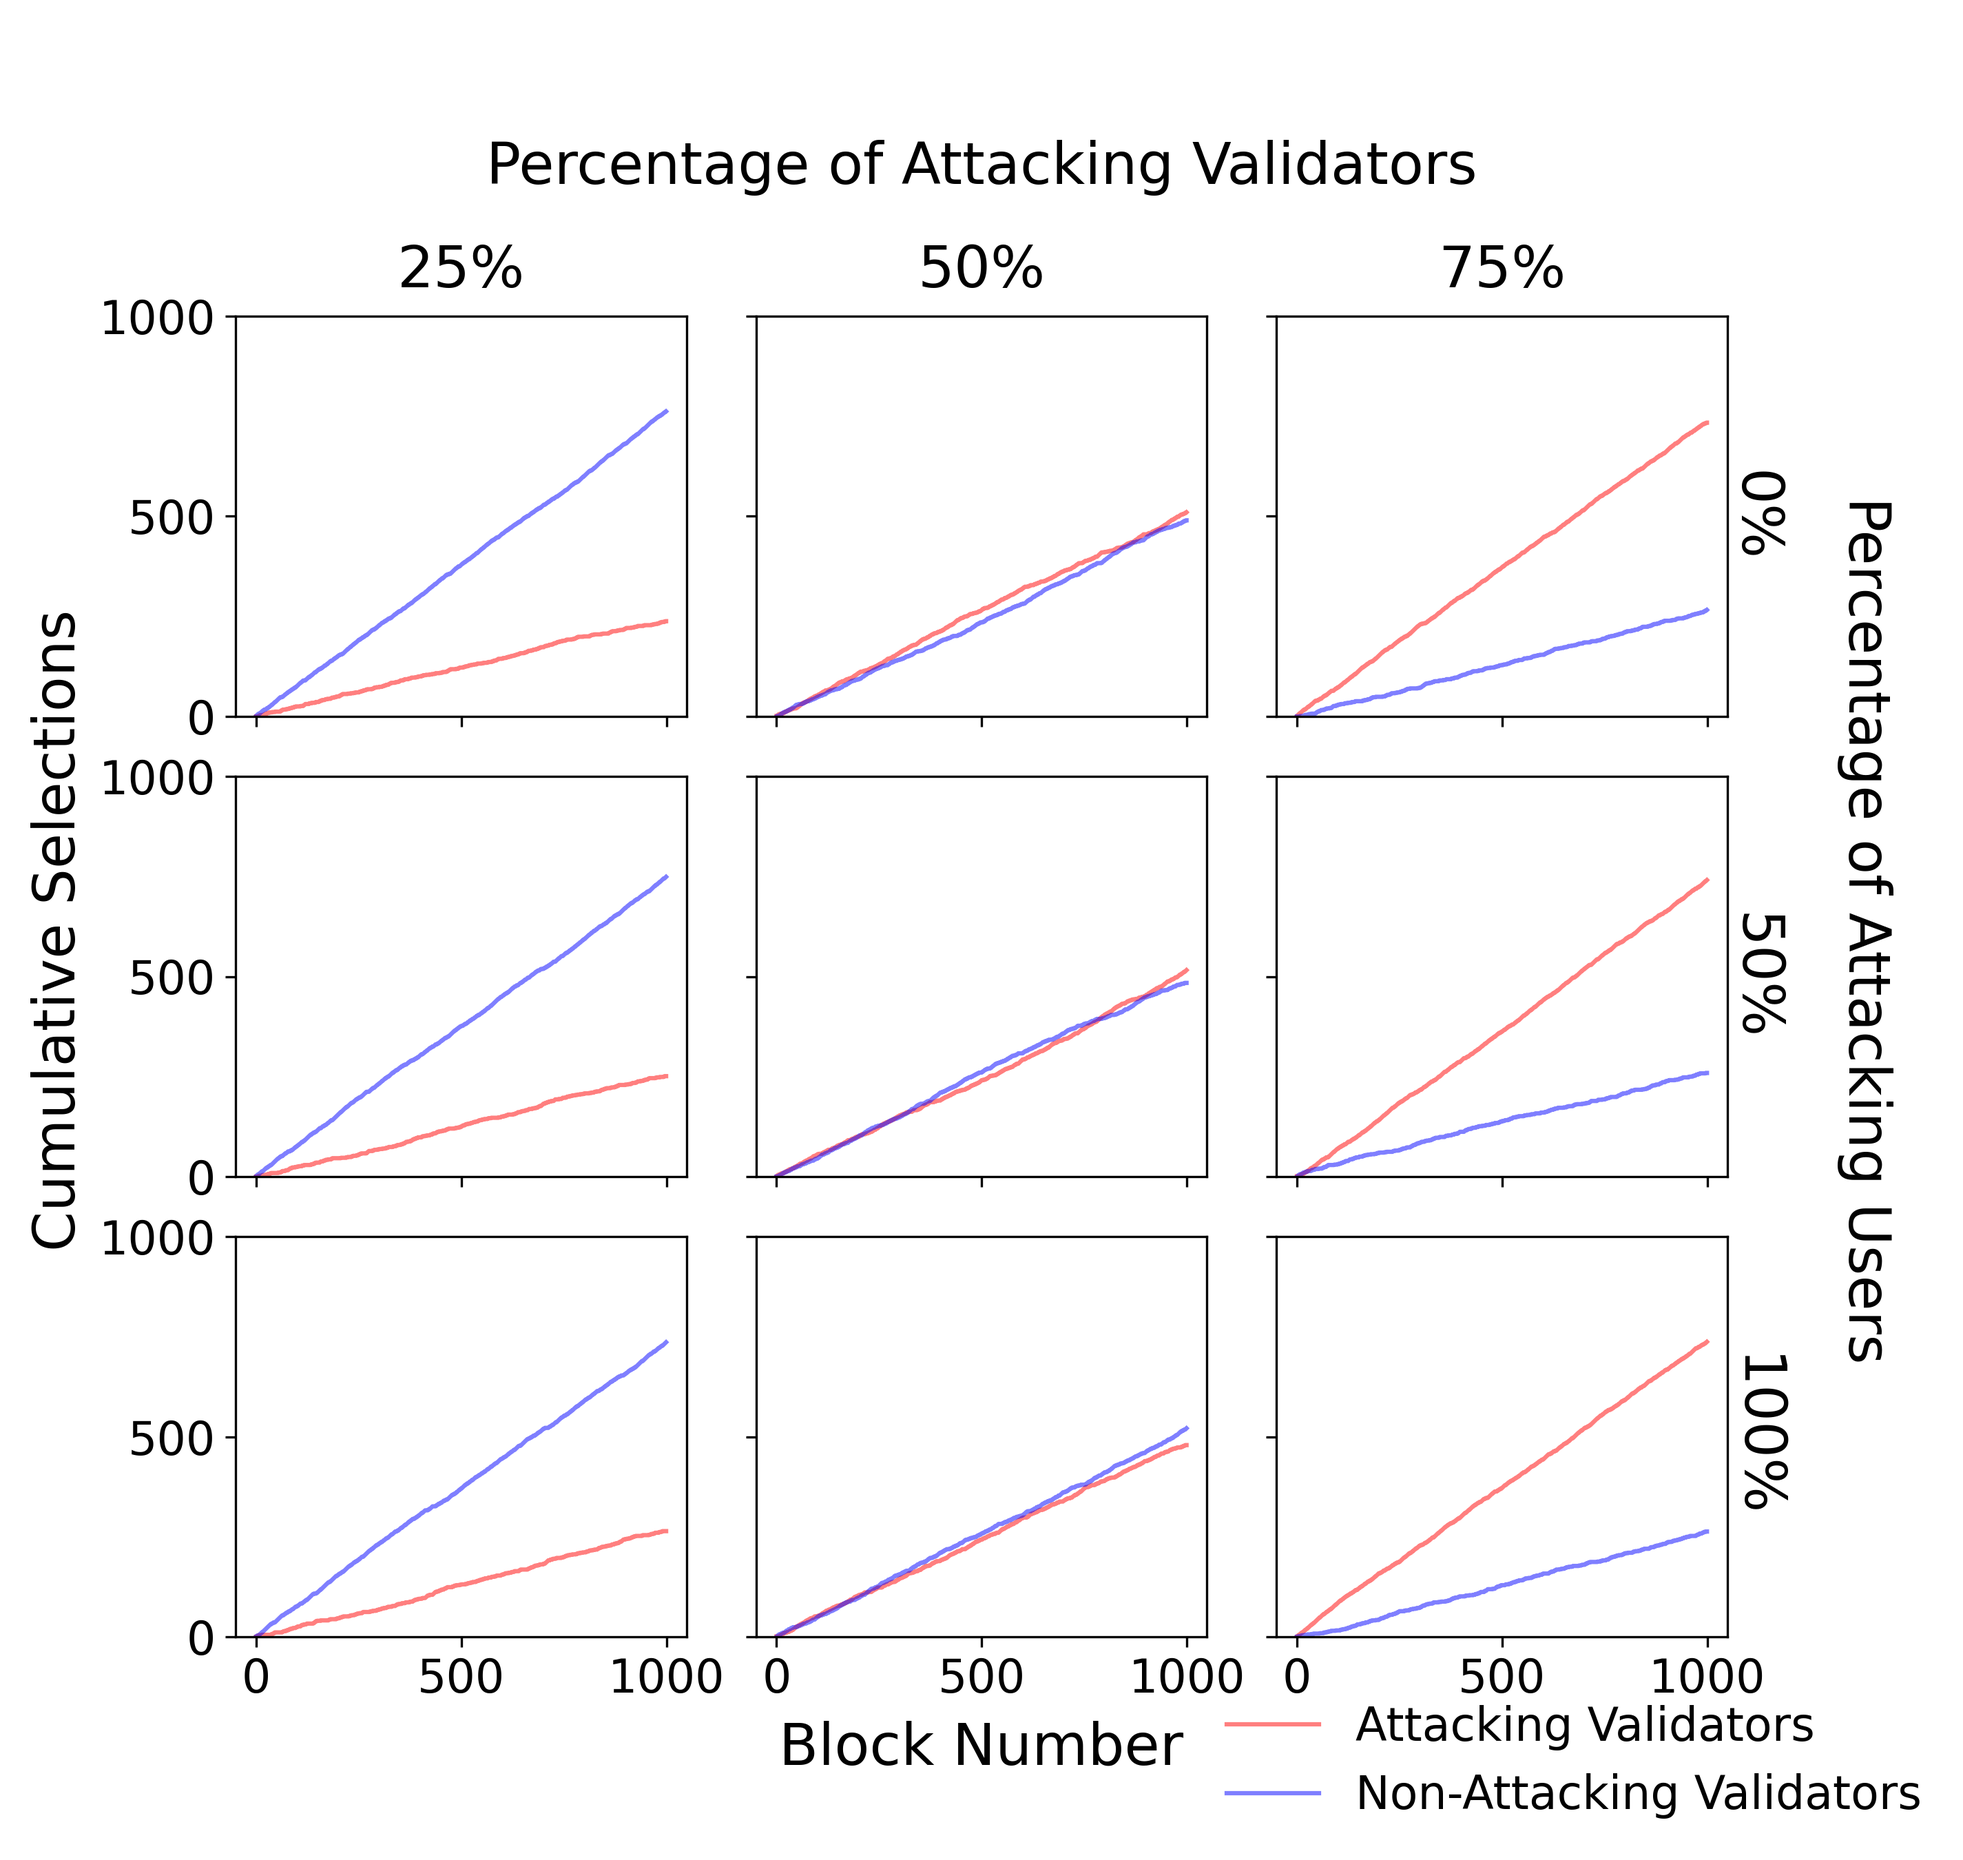
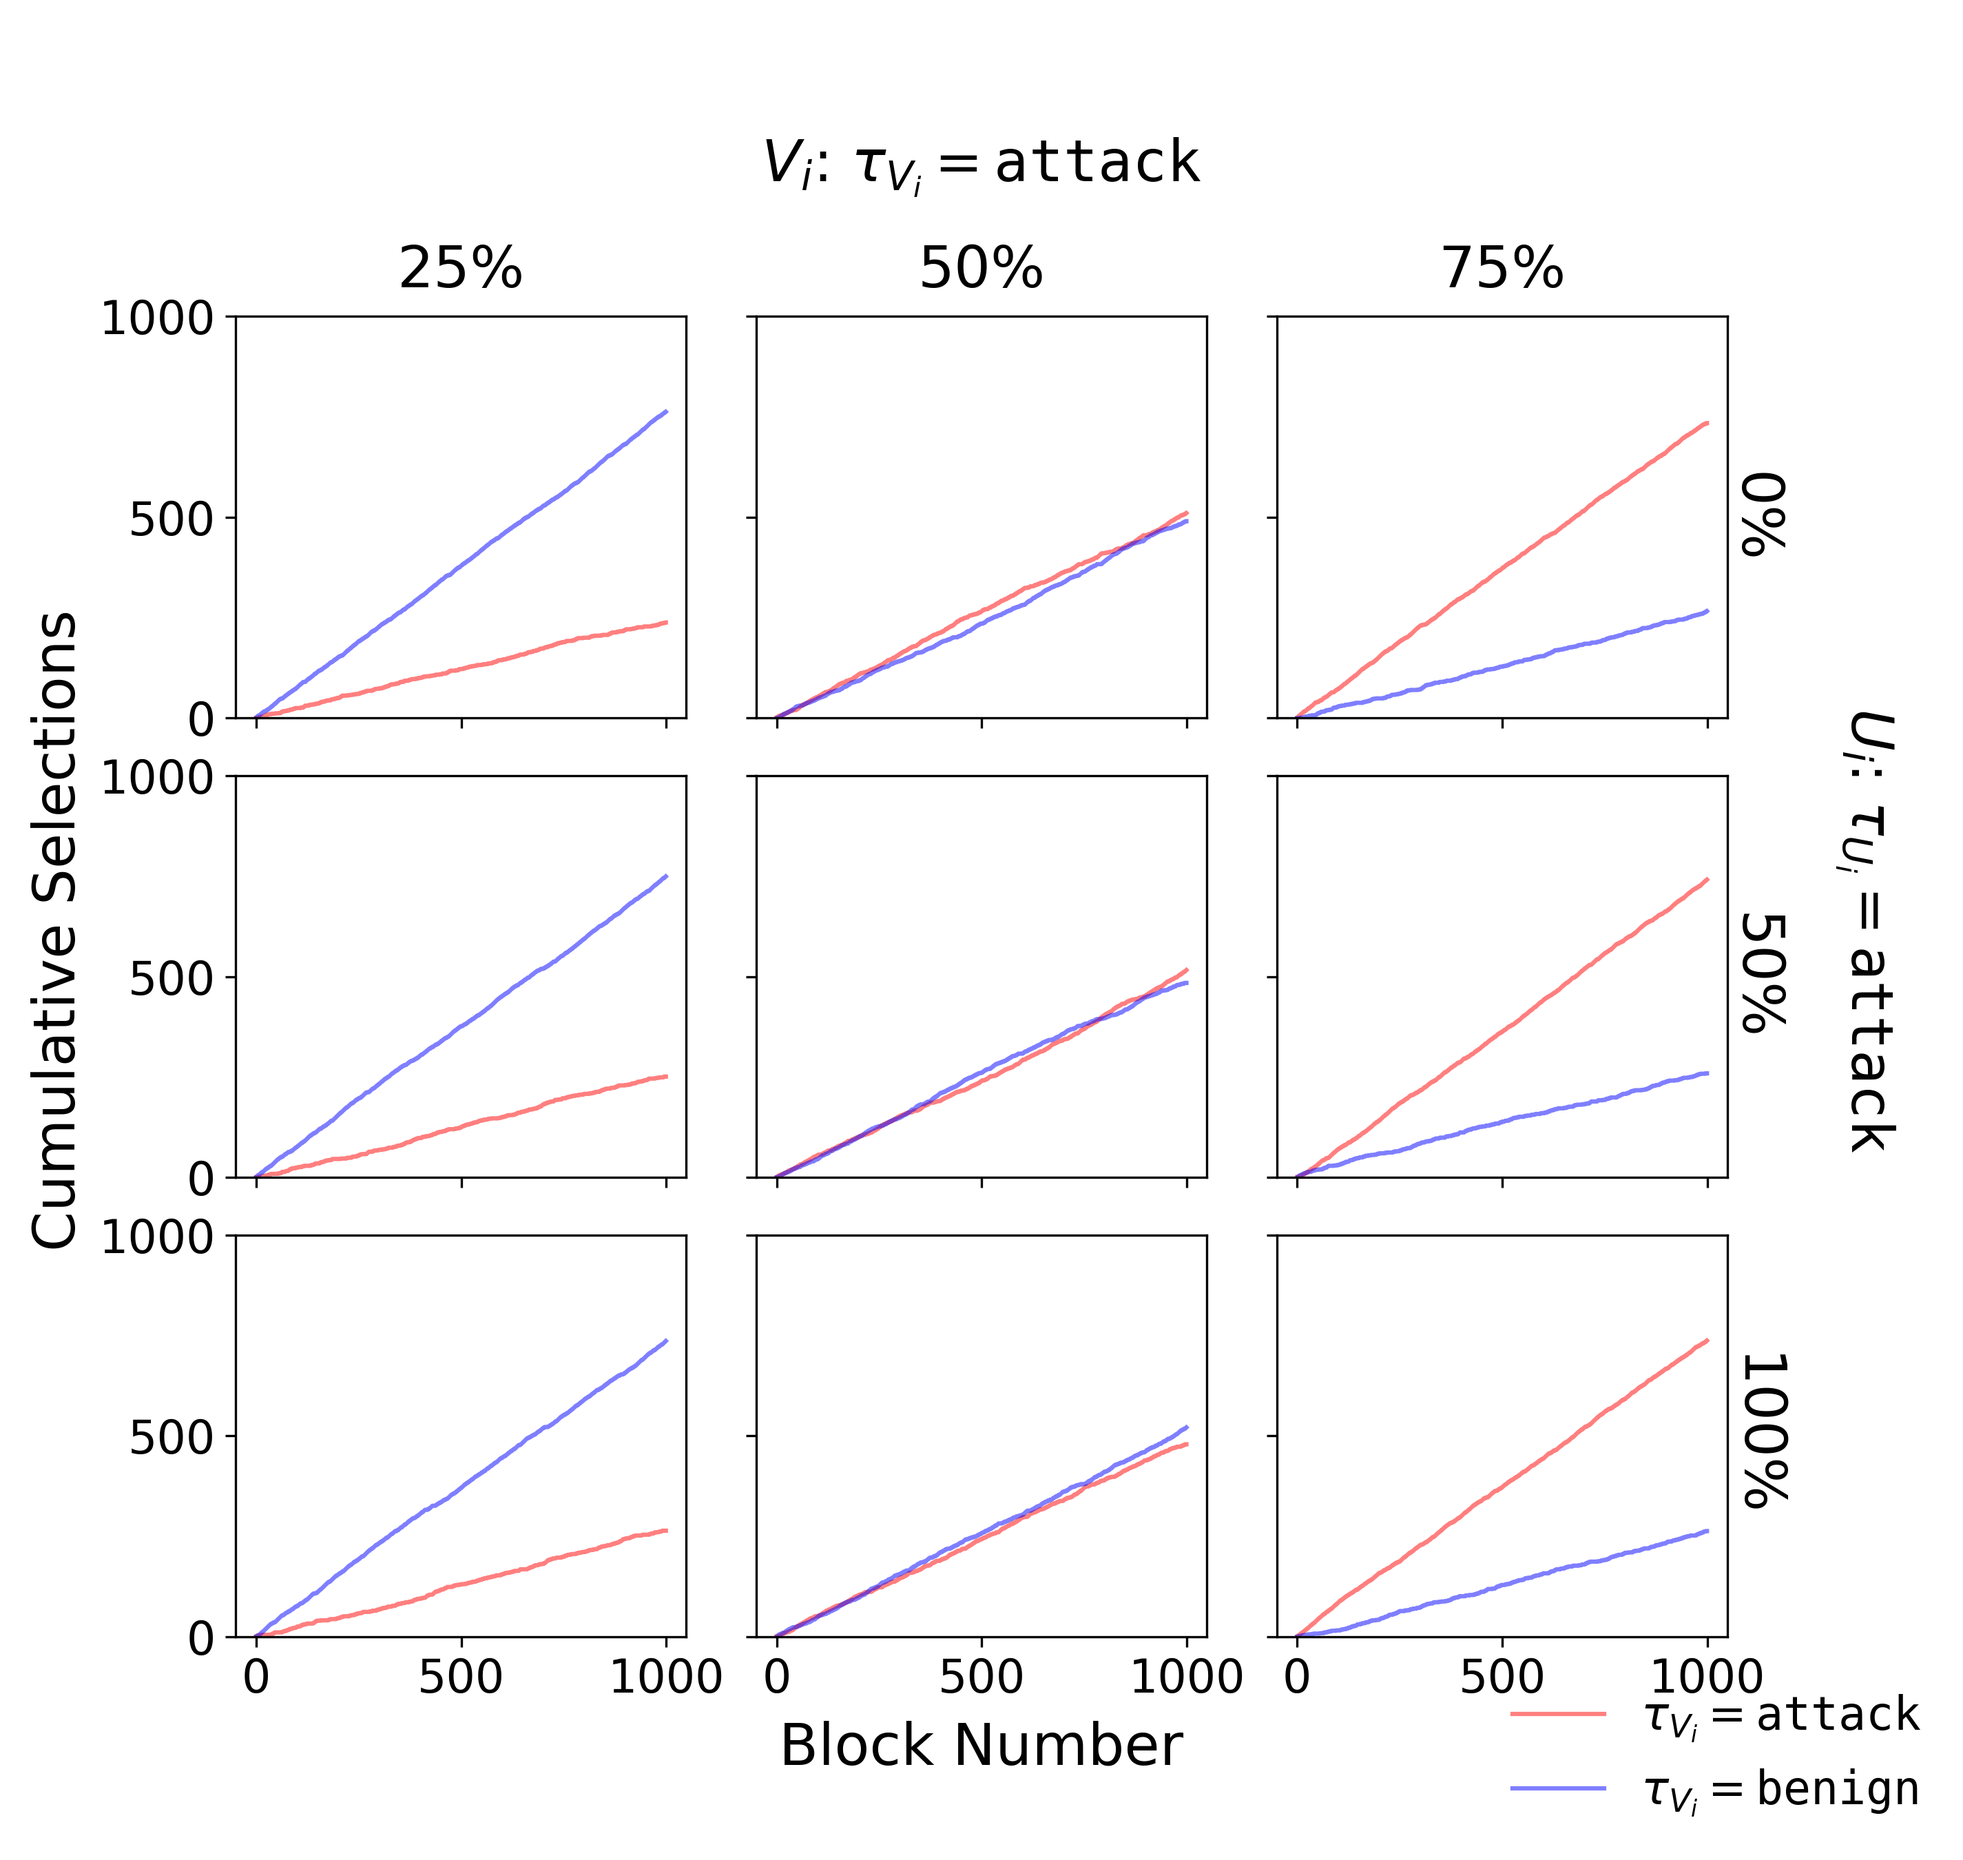
3*3 update

diff --git a/plots/ss/pbs_selection_3*3.py b/plots/ss/pbs_selection_3*3.py
@@ -94,16 +94,16 @@ def plot_cumulative_selections_over_blocks(data_folder, configs):
         x_vals = np.arange(len(att_counts))
 
         line1, = ax.plot(x_vals, np.cumsum(att_counts),
-                         color='red', alpha=0.5, label='Attacking Builders')
+                         color='red', alpha=0.5, label=r"$\tau_{B_i} = \mathtt{attack}$")
         line2, = ax.plot(x_vals, np.cumsum(nonatt_counts),
-                         color='blue', alpha=0.5, label='Non-Attacking Builders')
+                         color='blue', alpha=0.5, label=r"$\tau_{B_i} = \mathtt{benign}$")
         ax.set_ylim(0, y_limit)
         ax.set_yticks([0, 500, 1000])
 
         # Only gather legend handles once
         if not handles:
             handles.extend([line1, line2])
-            labels.extend(["Attacking Builders", "Non-Attacking Builders"])
+            labels.extend([r"$\tau_{B_i} = \mathtt{attack}$", r"$\tau_{B_i} = \mathtt{benign}$"])
 
         # Hide x-axis labels except bottom row
         if row_idx != len(user_counts) - 1:
@@ -145,14 +145,14 @@ def plot_cumulative_selections_over_blocks(data_folder, configs):
     # Top: "Percentage of Attacking Builders"
     fig.text(
         0.5, 0.91,  # Move down from 0.95 if needed
-        "Percentage of Attacking Builders",
+        r"$B_i$: $\tau_{B_i} = \mathtt{attack}$",
         ha='center', va='center',
         fontsize=outer_label_font_size
     )
     # Right: "Percentage of Attacking Users"
     fig.text(
         0.95, 0.5,  # Move left from 0.92 if needed
-        "Percentage of Attacking Users",
+        r"$U_i$: $\tau_{U_i} = \mathtt{attack}$",
         ha='center', va='center',
         rotation=-90,
         fontsize=outer_label_font_size

diff --git a/plots/ss/pos_selection_3*3.py b/plots/ss/pos_selection_3*3.py
@@ -104,16 +104,16 @@ def plot_cumulative_selections_over_blocks(data_folder, configs):
 
         # Plot cumulative sums
         line1, = ax.plot(block_nums, np.cumsum(att_counts),
-                         color='red', alpha=0.5, label='Attacking Validators')
+                         color='red', alpha=0.5, label=r"$\tau_{V_i} = \mathtt{attack}$")
         line2, = ax.plot(block_nums, np.cumsum(nonatt_counts),
-                         color='blue', alpha=0.5, label='Non-Attacking Validators')
+                         color='blue', alpha=0.5, label=r"$\tau_{V_i} = \mathtt{benign}$")
         ax.set_ylim(0, y_limit)
         ax.set_yticks([0, 500, 1000])
 
         # Collect legend refs once
         if not handles:
             handles.extend([line1, line2])
-            labels.extend(['Attacking Validators', 'Non-Attacking Validators'])
+            labels.extend([r"$\tau_{V_i} = \mathtt{attack}$", r"$\tau_{V_i} = \mathtt{benign}$"])
 
         # Hide x labels except bottom row
         if row != len(user_counts) - 1:
@@ -151,13 +151,13 @@ def plot_cumulative_selections_over_blocks(data_folder, configs):
     # Single text labels
     fig.text(
         0.5, 0.91,  # top
-        "Percentage of Attacking Validators",
+        r"$V_i$: $\tau_{V_i} = \mathtt{attack}$",
         ha='center', va='center',
         fontsize=outer_label_font_size
     )
     fig.text(
         0.95, 0.5,  # right
-        "Percentage of Attacking Users",
+        r"$U_i$: $\tau_{U_i} = \mathtt{attack}$",
         ha='center', va='center',
         rotation=-90,
         fontsize=outer_label_font_size
